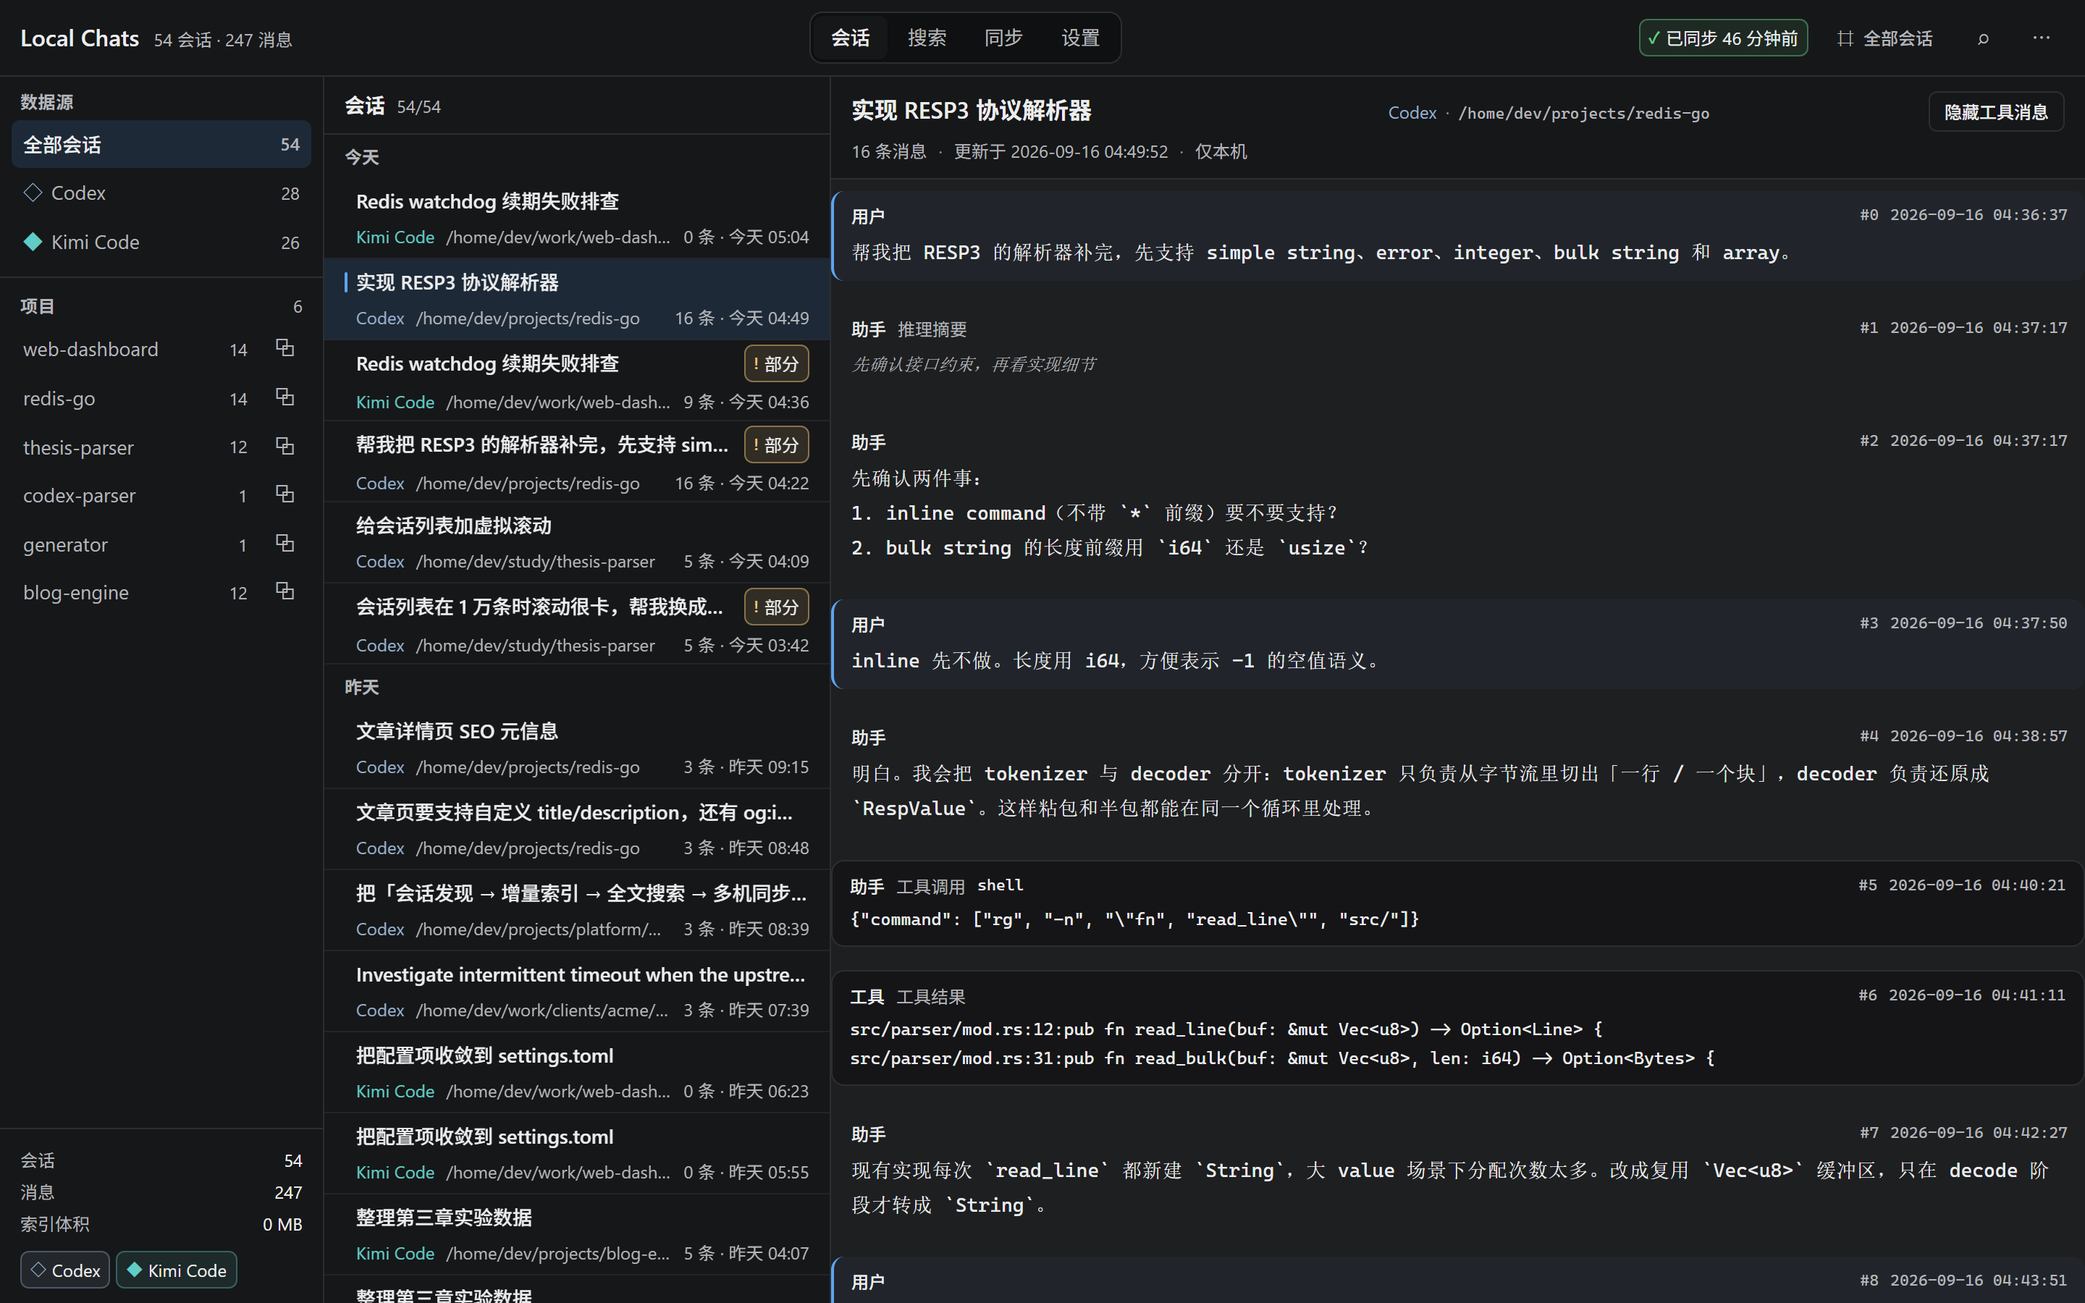
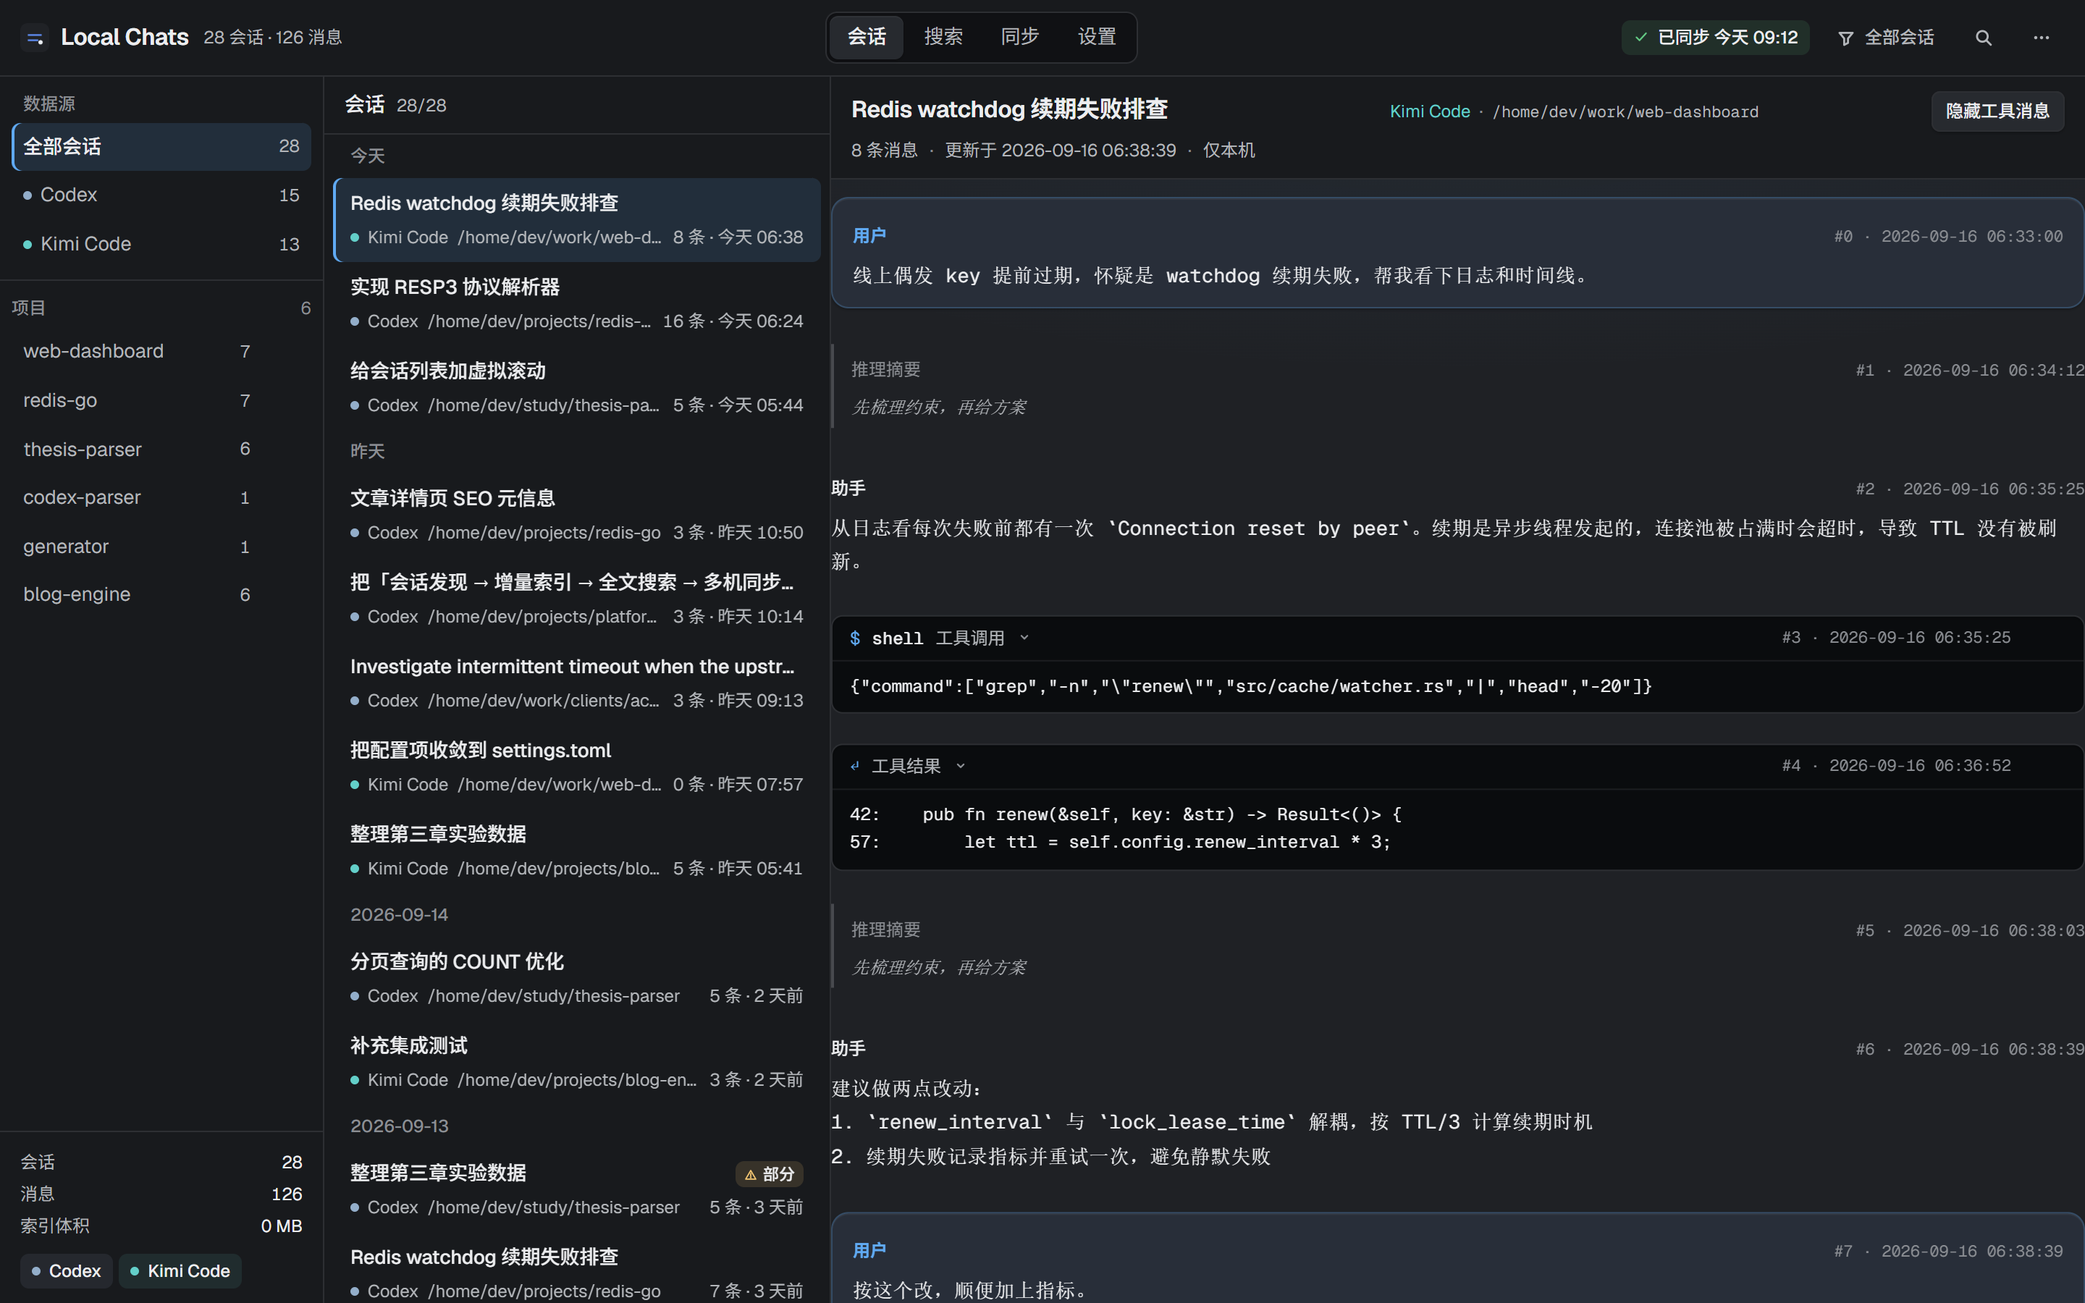
refactor(ui): assemble pages with redesigned components + harden QA
- SyncPage：步骤/归档/未提交文件迁移到 ListRow；补上 useSync.error 的可见渲染
- SettingsPage：目录选择收敛为 DirectoryInput；SearchPage：结果行重排层级、原生
  date/checkbox 换成 DateInput/Toggle、chips 换成 Chip
- App 顶栏加品牌图标
- 修复 QA 盲区：ui_qa 会话行选择器从 h-[56px] 改为 data-row；ui_shot detail 态同步
- 对比度审计全绿（浅/深 ink-faint 上调至 ≥4.5:1）；README 截图更新
- 文档：FRONTEND_VISUAL_REDESIGN.md 增加 §12 v2 组件级重设计结论；UI-QA.md 补画廊流程

diff --git a/src/features/sync/SyncPage.tsx b/src/features/sync/SyncPage.tsx
@@ -23,6 +23,7 @@ import {
   Field,
   Icon,
   IconButton,
+  ListRow,
   Notice,
   PanelHeader,
   SectionCard,
@@ -38,6 +39,7 @@ export function SyncPage() {
     archives,
     running,
     progress,
+    error,
     refresh,
     run,
     abortRebase,
@@ -154,6 +156,13 @@ export function SyncPage() {
 
       <div className="min-h-0 flex-1 overflow-y-auto p-4">
         <div className="mx-auto flex w-full max-w-[860px] flex-col gap-3">
+          {/* 同步执行/刷新失败：此前静默不可见，失败反馈必须持续到用户看到 */}
+          {error ? (
+            <Notice tone="danger" title={error.message}>
+              {error.detail ?? error.kind}
+            </Notice>
+          ) : null}
+
           {/* 冲突：可靠性样板，永远排在最前面 */}
           {conflict ? (
             <Notice
@@ -303,16 +312,21 @@ export function SyncPage() {
               {report ? (
                 <SectionCard title="上一次同步结果" description={`耗时 ${report.durationMs} ms`}>
                   {report.steps.map((step) => (
-                    <div key={step.name} className="flex items-center gap-2 py-0.5 text-meta">
-                      <StatusPill tone={step.ok ? 'success' : 'danger'}>
-                        {step.ok ? '完成' : '失败'}
-                      </StatusPill>
-                      <span className="w-32 shrink-0 text-ink-muted">{step.name}</span>
-                      <span className="min-w-0 flex-1 truncate text-ink">{step.detail}</span>
-                      <span className="shrink-0 tabular-nums text-ink-muted">
-                        {step.durationMs} ms
-                      </span>
-                    </div>
+                    <ListRow
+                      key={step.name}
+                      leading={
+                        <StatusPill size="sm" tone={step.ok ? 'success' : 'danger'}>
+                          {step.ok ? '完成' : '失败'}
+                        </StatusPill>
+                      }
+                      title={step.name}
+                      subtitle={step.detail}
+                      trailing={
+                        <span className="text-meta tabular-nums text-ink-muted">
+                          {step.durationMs} ms
+                        </span>
+                      }
+                    />
                   ))}
                 </SectionCard>
               ) : null}
@@ -346,22 +360,21 @@ export function SyncPage() {
                       ) : (
                         <div className="max-h-48 overflow-y-auto">
                           {archives.map((entry) => (
-                            <div key={entry.relPath} className="flex items-center gap-2 py-1 text-body">
-                              <StatusPill tone="neutral">{entry.compression}</StatusPill>
-                              <span className="min-w-0 flex-1 truncate text-ink">
-                                {entry.title ?? entry.sessionId}
-                              </span>
-                              <span className="ml-auto shrink-0 text-meta text-ink-muted">
-                                {formatBytes(entry.sizeBytes)} · {formatRelative(entry.createdAt)}
-                              </span>
-                              <Button
-                                tone="ghost"
-                                size="sm"
-                                onClick={() => void restore(entry.relPath)}
-                              >
-                                恢复
-                              </Button>
-                            </div>
+                            <ListRow
+                              key={entry.relPath}
+                              leading={<StatusPill size="sm" tone="neutral">{entry.compression}</StatusPill>}
+                              title={entry.title ?? entry.sessionId}
+                              trailing={
+                                <>
+                                  <span className="text-meta tabular-nums text-ink-muted">
+                                    {formatBytes(entry.sizeBytes)} · {formatRelative(entry.createdAt)}
+                                  </span>
+                                  <Button tone="ghost" size="sm" onClick={() => void restore(entry.relPath)}>
+                                    恢复
+                                  </Button>
+                                </>
+                              }
+                            />
                           ))}
                         </div>
                       )}

diff --git a/src/features/settings/SettingsPage.tsx b/src/features/settings/SettingsPage.tsx
@@ -12,6 +12,7 @@ import * as ipc from '../../lib/ipc'
 import { useLibrary } from '../../stores/library'
 import {
   Button,
+  DirectoryInput,
   Field,
   FormField,
   Notice,
@@ -123,28 +124,24 @@ export function SettingsPage() {
           >
             <FormField label="Codex 目录" hint="手工指定后只扫描该目录，不再自动发现其他位置">
               {(props) => (
-                <div className="flex gap-2">
-                  <TextInput
-                    {...props}
-                    value={draft.codexPath ?? ''}
-                    onChange={(event) => patch({ codexPath: event.target.value || null })}
-                    placeholder="C:\Users\you\.codex"
-                  />
-                  <Button onClick={() => void pickDirectory('codexPath')}>选择</Button>
-                </div>
+                <DirectoryInput
+                  {...props}
+                  value={draft.codexPath ?? ''}
+                  onChange={(value) => patch({ codexPath: value || null })}
+                  placeholder="C:\Users\you\.codex"
+                  onBrowse={() => void pickDirectory('codexPath')}
+                />
               )}
             </FormField>
             <FormField label="KimiCode 目录" hint="通常是 ~/.kimi-code">
               {(props) => (
-                <div className="flex gap-2">
-                  <TextInput
-                    {...props}
-                    value={draft.kimiPath ?? ''}
-                    onChange={(event) => patch({ kimiPath: event.target.value || null })}
-                    placeholder="C:\Users\you\.kimi-code"
-                  />
-                  <Button onClick={() => void pickDirectory('kimiPath')}>选择</Button>
-                </div>
+                <DirectoryInput
+                  {...props}
+                  value={draft.kimiPath ?? ''}
+                  onChange={(value) => patch({ kimiPath: value || null })}
+                  placeholder="C:\Users\you\.kimi-code"
+                  onBrowse={() => void pickDirectory('kimiPath')}
+                />
               )}
             </FormField>
           </SectionCard>
@@ -156,15 +153,13 @@ export function SettingsPage() {
           >
             <FormField label="仓库目录">
               {(props) => (
-                <div className="flex gap-2">
-                  <TextInput
-                    {...props}
-                    value={draft.syncRepo ?? ''}
-                    onChange={(event) => patch({ syncRepo: event.target.value || null })}
-                    placeholder="D:\AIChatRepo"
-                  />
-                  <Button onClick={() => void pickDirectory('syncRepo')}>选择</Button>
-                </div>
+                <DirectoryInput
+                  {...props}
+                  value={draft.syncRepo ?? ''}
+                  onChange={(value) => patch({ syncRepo: value || null })}
+                  placeholder="D:\AIChatRepo"
+                  onBrowse={() => void pickDirectory('syncRepo')}
+                />
               )}
             </FormField>
             <FormField label="远端地址" hint="支持 GitHub / GitLab / Gitea / 自建 Git">

diff --git a/src/features/search/SearchPage.tsx b/src/features/search/SearchPage.tsx
@@ -296,7 +296,7 @@ export function SearchPage() {
             description={`FTS5 查询：${response.matchQuery}。可尝试减少关键词或放宽筛选条件。`}
           />
         ) : null}
-        <div className="mx-auto w-full max-w-[920px]">
+        <div className="mx-auto w-full max-w-[920px] px-2 py-2">
           {response?.hits.map((hit) => (
             <button
               key={hit.messageId}
@@ -305,23 +305,30 @@ export function SearchPage() {
                 setPage('conversations')
                 void selectSession(hit.sessionId)
               }}
-              className="block w-full border-b border-line/60 px-4 py-2.5 text-left transition-colors hover:bg-hover"
+              className="block w-full rounded-control px-3 py-2.5 text-left transition-colors hover:bg-hover"
             >
-              <div className="flex min-w-0 items-center gap-2 text-meta text-ink-muted">
-                <StatusPill tone={hit.source === 'kimi' ? 'kimi' : 'codex'}>
+              {/* 第一行：来源 + 会话标题 + 时间（项目路径降到第三行，不再与标题抢宽度） */}
+              <div className="flex min-w-0 items-center gap-2">
+                <StatusPill size="sm" tone={hit.source === 'kimi' ? 'kimi' : 'codex'}>
                   {sourceLabel(hit.source)}
                 </StatusPill>
-                <span className="min-w-0 flex-1 truncate text-ink">{hit.projectPath ?? '未知项目'}</span>
-                <span className="min-w-0 flex-1 truncate">{hit.title ?? hit.sessionId}</span>
-                <span className="ml-auto shrink-0">{formatRelative(hit.sessionUpdatedAt)}</span>
+                <span className="min-w-0 flex-1 truncate text-body font-medium text-ink">
+                  {hit.title ?? hit.sessionId}
+                </span>
+                <span className="shrink-0 text-meta tabular-nums text-ink-muted">
+                  {formatRelative(hit.sessionUpdatedAt)}
+                </span>
               </div>
               {/* snippet 为后端生成的高亮片段（含 <mark>） */}
               <div
-                className="pt-1 text-body leading-6 text-ink [&_mark]:rounded [&_mark]:bg-warning/30"
+                className="pt-1 text-body leading-6 text-ink-muted [&_mark]:rounded [&_mark]:bg-warning/30 [&_mark]:text-ink"
                 dangerouslySetInnerHTML={{ __html: escapeExceptMark(hit.snippet) }}
               />
-              <div className="pt-0.5 text-tech text-ink-muted">
-                {hit.role} · #{hit.sequence} · {formatDateTime(hit.timestamp)}
+              <div className="flex min-w-0 items-center gap-1.5 pt-1 text-meta text-ink-faint">
+                <span className="min-w-0 flex-1 truncate">{hit.projectPath ?? '未知项目'}</span>
+                <span className="shrink-0 text-tech">
+                  {hit.role} · #{hit.sequence} · {formatDateTime(hit.timestamp)}
+                </span>
               </div>
             </button>
           ))}

diff --git a/src/app/App.tsx b/src/app/App.tsx
@@ -31,6 +31,7 @@ import {
 } from '../components/ui'
 import { describeFilter, formatRelative } from '../lib/format'
 import { useMinWidth } from '../hooks/useMediaQuery'
+import appIcon from '../assets/app-icon.png'
 
 /** 导航项。 */
 const NAV: Array<{ key: PageKey; label: string; hint: string }> = [
@@ -113,9 +114,10 @@ export default function App() {
       {/* 极端缩放（200%）下工具栏允许换行：宁可占两行，也不要整页横向滚动 */}
       <header className="flex min-h-13 shrink-0 flex-wrap items-center gap-x-3 gap-y-1 border-b border-line bg-panel px-3.5 py-2">
         {/* 左：品牌 + 资料库摘要 */}
-        <div className="flex min-w-0 items-baseline gap-2.5">
+        <div className="flex min-w-0 items-center gap-2">
+          <img src={appIcon} alt="" className="h-5 w-5 rounded-[5px]" />
           <span className="text-title text-ink">Local Chats</span>
-          <span className="min-w-0 truncate text-meta text-ink-muted">
+          <span className="min-w-0 truncate pl-0.5 text-meta text-ink-muted">
             {stats ? `${stats.sessions} 会话 · ${stats.messages} 消息` : '索引未就绪'}
           </span>
         </div>

diff --git a/src/index.css b/src/index.css
@@ -109,7 +109,7 @@
 
   --ink: oklch(0.945 0.003 264);
   --ink-muted: oklch(0.775 0.007 264); /* 元数据主色：对比度 ≈ 7:1 */
-  --ink-faint: oklch(0.645 0.009 264); /* 三级信息：仅用于非关键装饰 */
+  --ink-faint: oklch(0.685 0.009 264); /* 三级信息：在 term 深块上也保持 ≥ 4.5:1 */
 
   --line: oklch(0.305 0.007 264);
   --line-strong: oklch(0.41 0.009 264);
@@ -161,7 +161,7 @@
 
   --ink: oklch(0.245 0.008 264);
   --ink-muted: oklch(0.455 0.011 264); /* 元数据主色：对比度 ≈ 8:1 */
-  --ink-faint: oklch(0.53 0.013 264); /* 三级信息：仍保持 ≈ 4.5:1 */
+  --ink-faint: oklch(0.5 0.013 264); /* 三级信息：保持 ≥ 4.5:1（11px 也过 AA） */
 
   --line: oklch(0.882 0.006 90);
   --line-strong: oklch(0.79 0.008 90);

diff --git a/docs/FRONTEND_VISUAL_REDESIGN.md b/docs/FRONTEND_VISUAL_REDESIGN.md
@@ -1,8 +1,8 @@
 # Local AI Chat Manager 前端视觉重构方案
 
-> 状态：提案 v1  
-> 目标：保留产品功能、信息架构和数据模型，重构视觉语言、页面层级与交互表达。  
-> 适用范围：`src/app`、`src/components`、`src/features` 与 `src/index.css`。
+> 状态：v2 已落地（组件级重设计，2026-09-16）  
+> v1（本文档 §1–§11）完成了 token 与页面层级；v2 在其基础上把**每个组件当作物件重新设计**，见文末 §12。  
+> 适用范围：`src/app`、`src/components`、`src/features`、`src/gallery` 与 `src/index.css`。
 
 ## 1. 结论先行
 
@@ -362,3 +362,27 @@
 - 用新的设计系统和页面层级，把现有功能从“调试工具”提升为“可信的本地会话档案工作台”。
 
 这条路线能解决当前大部分“丑”的根因，同时把功能风险控制在表现层范围内。
+
+## 12. v2：组件级重设计（2026-09-16 落地）
+
+v1 换的是「皮」（token/色板/层级），组件本身的造型没有被设计过：原生 `<select>` 直接出镜、
+按钮是描边圆角矩形、看得最多的会话行和消息块最平庸。v2 改为**组件设计先行**：
+
+**机制**：`?gallery` 组件画廊（`src/gallery/Gallery.tsx`）陈列每个组件的全部状态与深浅主题，
+`tools/gallery_shot.mjs` 逐区块截图。组件在画廊过关后才进页面。
+
+**材料**：
+- 字体本地打包：拉丁 Geist / 等宽 Geist Mono（变量字重，woff2 进产物，Tauri 离线可用），
+  CJK 回落系统栈；类型层级改为「字号 × 字重 × 字距」三者分层；
+- 控件皮肤统一为 `.field`：内陷表面 + inset ring（比 border 锐利、不撑布局）+ 顶内阴影，
+  hover/focus/invalid 只改 ring 颜色；
+- 圆角收敛为三档：控件 6 / 面板 8 / 浮层 12。
+
+**组件结论**：
+- `Select` 自绘（触发器 + 浮层 + 选中对勾 + 完整键盘导航），原生 select/date/checkbox 不再出镜；
+- `Toggle` 为真正的拨杆开关（`role="switch"`）；
+- `Button` 四语气：primary 渐变浮起、secondary inset ring + 轻投影、danger 实体淡染；
+- `SessionRow` 是圆角物件（容器内缩、选中 = 填充 + inset 强调条、徽标微型化），列表不再有连续 hairline；
+- 工具调用/结果是带头栏的终端块（工具名 + 折叠 chevron + hover 复制），默认仍展开；
+- `StatusPill`/`Notice` 无边框淡染，图标承担色觉冗余；
+- 新增 `SidebarRow`/`SectionLabel`/`ListRow`/`Chip`/`DirectoryInput`/`Drawer`，页面里的手写重复模式收敛进 `ui/`。

diff --git a/docs/UI-QA.md b/docs/UI-QA.md
@@ -56,6 +56,20 @@ npm run ui:shots -- --out .ui-shots/phase4 --states normal,empty,conflict
 | 焦点可达 | Tab 20 步内每个焦点元素都有可访问名称且可见 | 键盘用户不该掉进「看不见的焦点」 |
 | 大列表虚拟化 | 2000 个会话时渲染行数 ≤ 60、DOM 节点 ≤ 4000 | 防止有人把虚拟列表改回全量渲染 |
 
+会话行的选择器是 `button[data-row="session"]`（改 SessionRow 结构时保持这个钩子）。
+
+## 组件画廊（组件级重设计的验收工具）
+
+`tools/gallery_shot.mjs` 按「区块 × 主题」截取 `?gallery` 页面：
+
+```bash
+npm run dev            # 另开一个终端
+node tools/gallery_shot.mjs --out .ui-shots/gallery
+```
+
+区块清单在脚本的 `SECTIONS` 里；表单控件区块会额外拍一张下拉展开态（`inputs-open-*.png`）。
+规则：**组件先在画廊里过关（全状态、深浅双主题），才允许进页面。**
+
 对比度审计（`npm run ui:a11y`）用 1×1 canvas 把 `oklch()` 等现代颜色转成 sRGB 后再算对比度 ——
 直接解析字符串会把 `oklch(0.2 0.005 265)` 当成 rgb 读，得出完全错误的结论。
 
